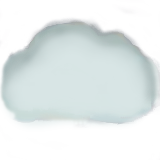
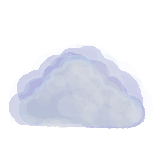
nuevos íconos para la página, ahora agregados al css

diff --git a/public/styles.css b/public/styles.css
@@ -34,10 +34,12 @@ body {
 	position: relative;
 	z-index: -30;
 }
-.weather-card-clouds,
-.weather-card-rain
+.weather-card-clouds
 {
 	background: url(/images/nublado.png);
+}
+.weather-card-rain {
+	background: url(/images/lluvioso.png);
 }
 
 .weather-card .description {
@@ -50,8 +52,10 @@ body {
 }
 
 .weather-card-rain .description {
+	background: url(/images/lluvia.png);
+}
+.weather-card-clouds .description {
 	background: url(/images/nube.png);
-
 }
 .weather-info-container{
 	text-align: right;
